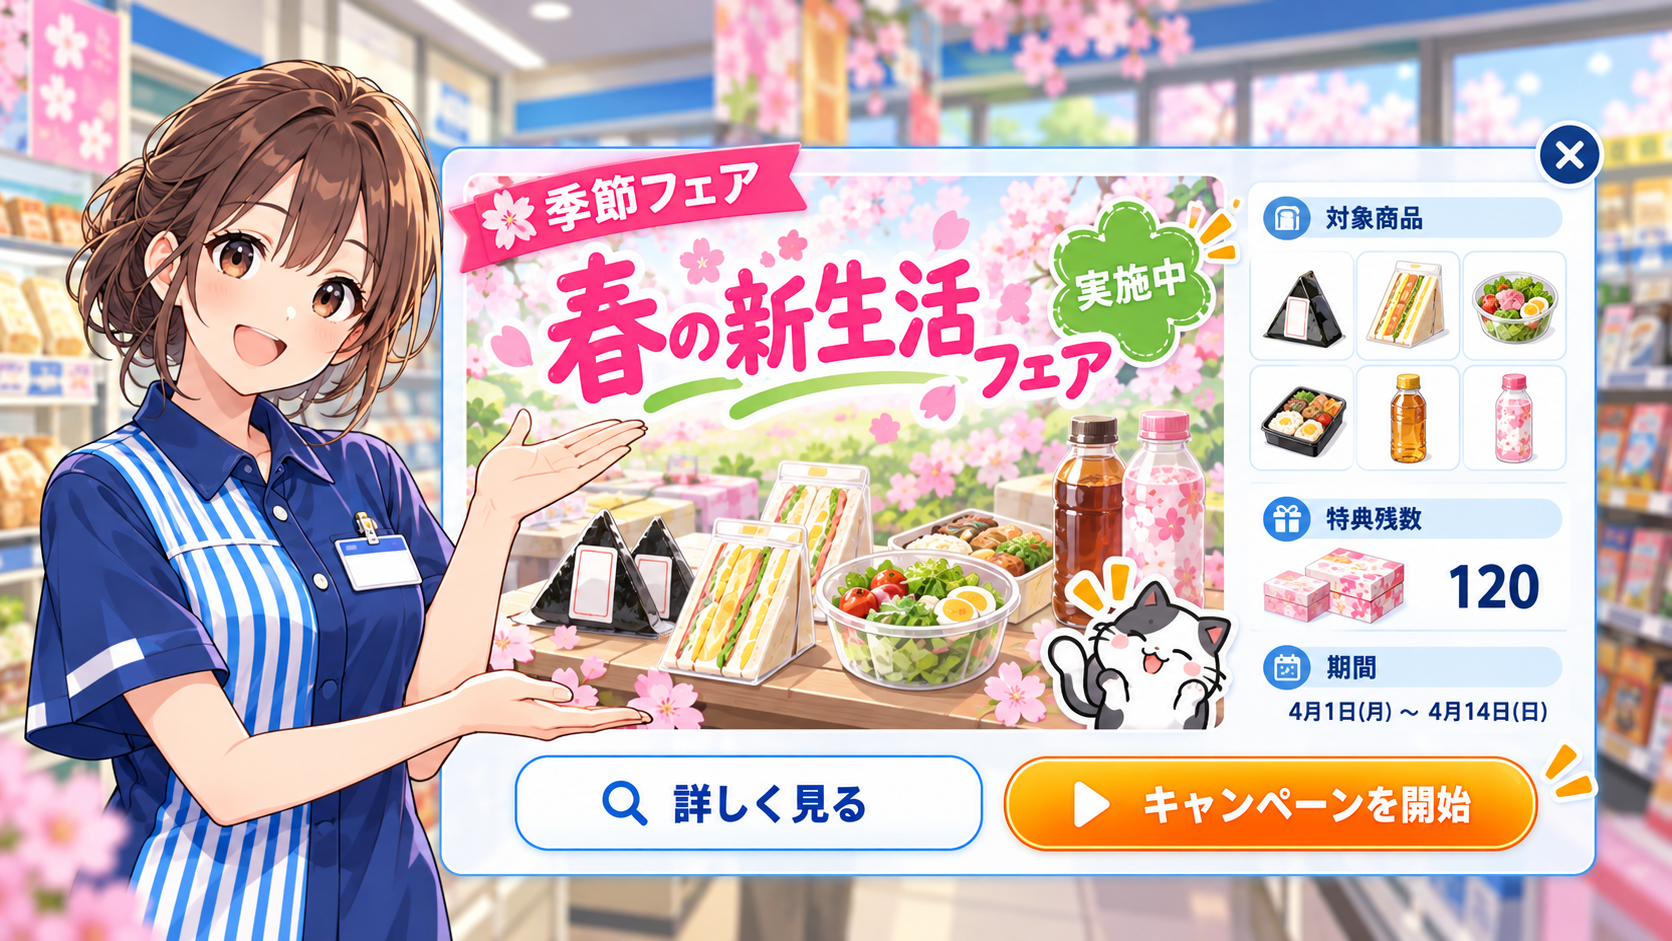
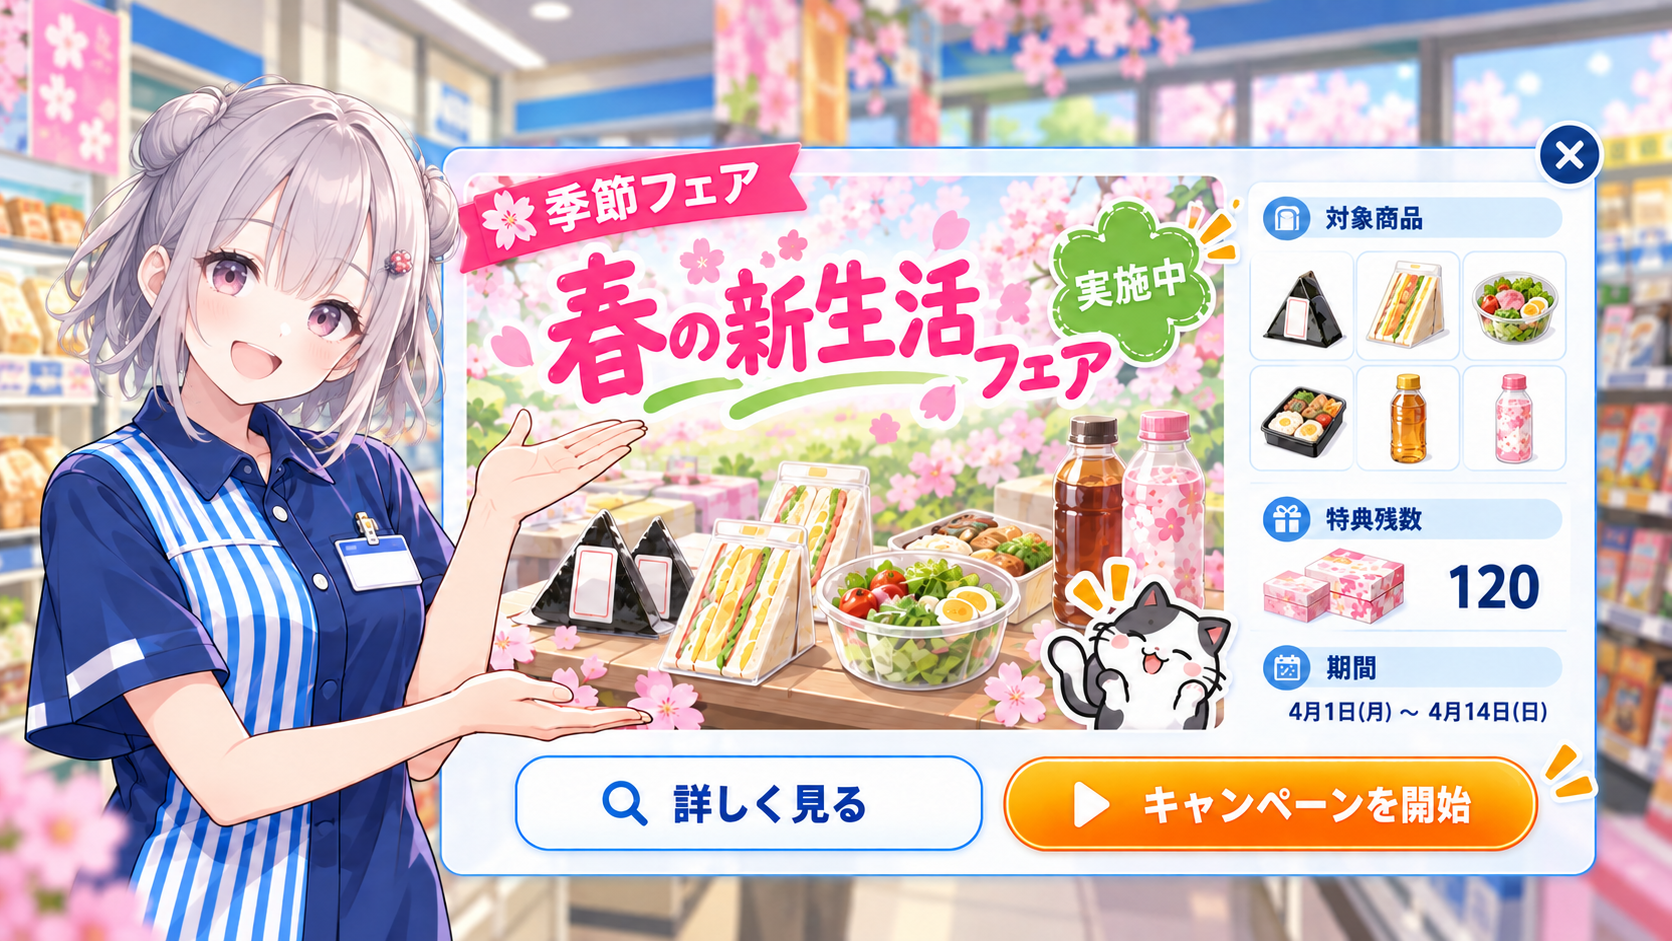
Use Koharu Rikka reference in seasonal campaign mockup

diff --git a/docs/design/mockups/characters/issue140_seasonal_campaign/README.md b/docs/design/mockups/characters/issue140_seasonal_campaign/README.md
@@ -1,20 +1,21 @@
 # Issue #140 seasonal campaign character mockup
 
-This is a review mockup for Issue #140, separate from the four character screens in PR #173.
+This is a review mockup for Issue #140, separate from the four character screens in PR #173. The current primary image uses the user-provided Koharu Rikka character reference.
 
 ## Screen intent
 
-- A store manager/assistant introduces an original fictional spring campaign.
+- Koharu Rikka is shown as the store manager/assistant introducing a spring campaign.
 - The character supports the decision without covering the campaign controls.
 - The screen exposes target products, novelty stock, campaign period, details, and start action.
-- The campaign is fictional and uses no real company, product, anime, or promotional IP.
+- The campaign UI is fictional and uses no real company or product brand.
 
 ## Scope boundary
 
-This PNG is a visual proposal only. It does not implement campaign state, inventory, ledger effects, seed handling, or Godot controls. The displayed date, stock count, products, and labels are illustrative; runtime values must come from the Issue #140 campaign model and existing product data.
+This PNG is a visual proposal only. It does not implement campaign state, inventory, ledger effects, seed handling, or Godot controls. The displayed date, stock count, products, and labels are illustrative; runtime values must come from the Issue #140 campaign model and existing product data. The character identity is user-specified; redistribution and formal character/IP approval remain open before production use.
 
 ## Validation
 
 - 1672x941 RGB PNG.
 - Character is confined to the left presentation area; primary controls remain visible.
 - No title screen, title-return menu, staff recruitment, customer detail, store expansion, or achievement layout is included.
+- `seasonal_campaign_character_mockup_generic_v01.png` preserves the previous generic-character draft for comparison.
